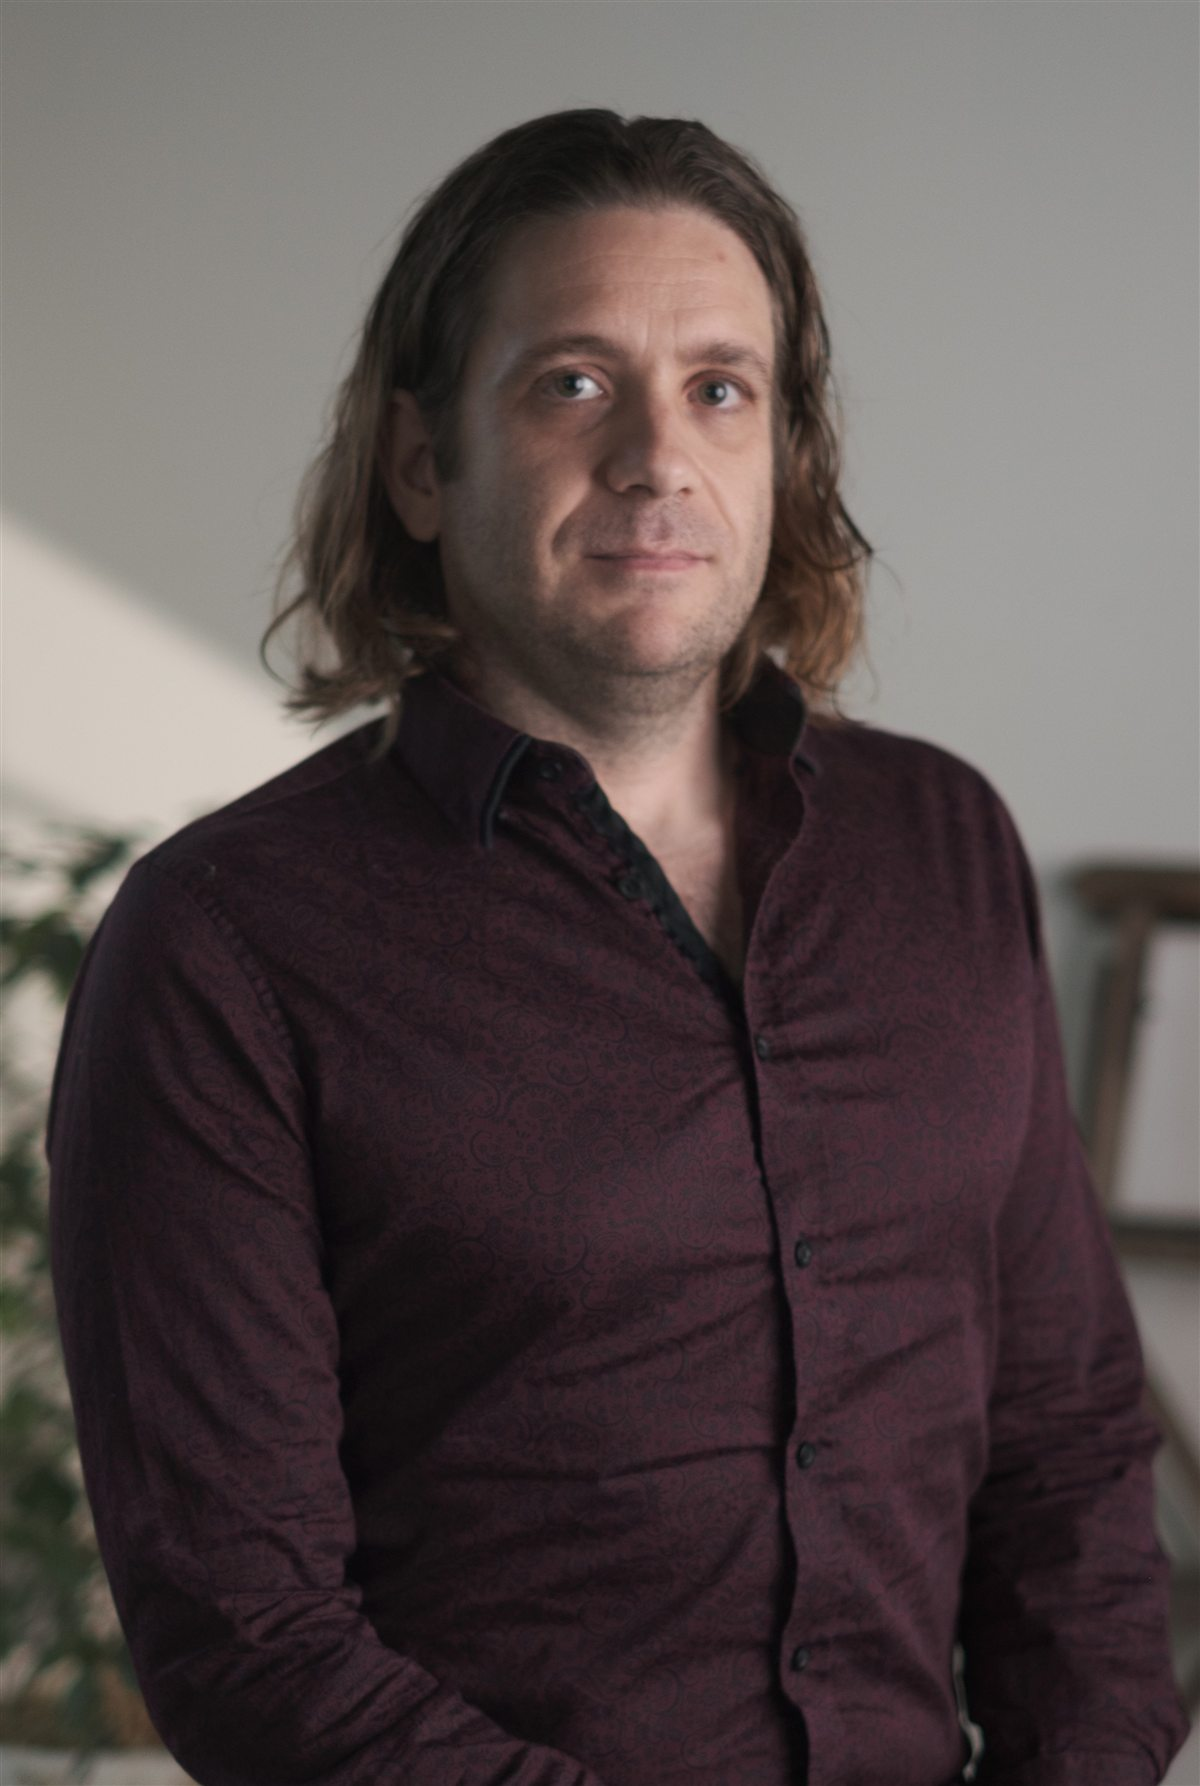
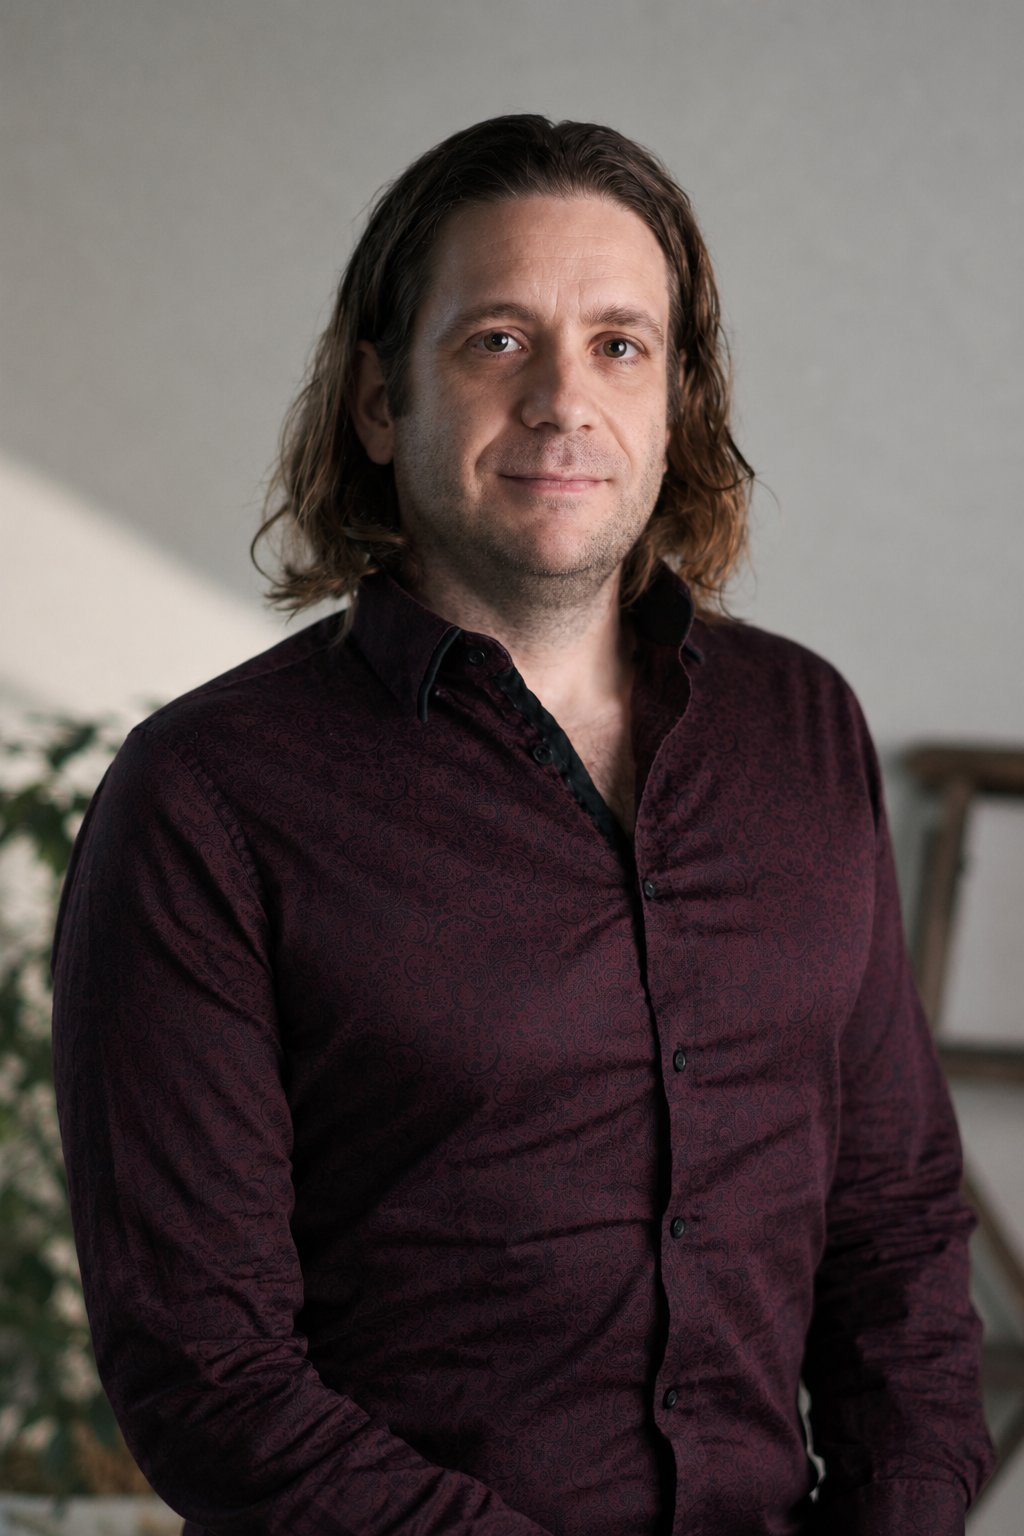
Update ENM page and portraits

diff --git a/src/pages/EnmPolyamoryCounselling.tsx b/src/pages/EnmPolyamoryCounselling.tsx
@@ -9,6 +9,7 @@ import useDocumentMetadata from "../hooks/useDocumentMetadata";
 import "../styles-enm-polyamory.css";
 
 type LinkItem = { label: string; href: string };
+type PositionItem = { label: string; prose: string };
 type GapItem = { title: string; copy: string };
 type TopicItem = { title: string; copy: string };
 type PrincipleItem = { title: string; text: string };
@@ -23,12 +24,43 @@ const pageContent = {
   hero: {
     badge: "ENM & polyamory counselling",
     intro:
-      "These relationships are known here. Not just the structures. There is no implicit goal of simplification. Jealousy is not treated as evidence that the structure is failing. Whatever you are carrying within these relationships, it can come here. The weight of it, taken seriously.",
+      "These relationships are known here. What it actually feels like to live inside them. There is no implicit goal of simplification. Jealousy is not treated as evidence that your relationships are the problem. Whatever you are carrying within these relationships, it can come here. The weight of it, taken seriously.",
     hubAside: {
       label: "Wider context",
       copy: "If ENM is only one part of why this page felt relevant, the inclusion hub keeps the wider context in view: kink, LGBTQIA+ lives, shame, family, community overlap, and the parts that do not sit neatly under one label.",
       link: { label: "Back to inclusion hub", href: "/inclusion" } satisfies LinkItem,
     },
+  },
+
+  positionsSection: {
+    heading: "Wherever you are in this.",
+    items: [
+      {
+        label: "When the ground shifts.",
+        prose:
+          "The relationship you thought you were in has become uncertain. Whether you brought this question into the relationship or it arrived with your partner, the usual scripts don't fit. What you haven't been able to say yet belongs here too. This can be the place to find out what you actually think and feel, without the answer being decided before you arrive.",
+      },
+      {
+        label: "Jealousy, insecurity, the gap.",
+        prose:
+          "Praesent commodo cursus magna, vel scelerisque nisl consectetur et. Integer posuere erat a ante venenatis dapibus.",
+      },
+      {
+        label: "Running the middle.",
+        prose:
+          "Donec ullamcorper nulla non metus auctor fringilla. Curabitur blandit tempus porttitor, mauris condimentum.",
+      },
+      {
+        label: "When the needs don't match.",
+        prose:
+          "Aenean lacinia bibendum nulla sed consectetur. Vestibulum id ligula porta felis euismod semper.",
+      },
+      {
+        label: "Not knowing yet.",
+        prose:
+          "Nullam quis risus eget urna mollis ornare vel eu leo. Maecenas faucibus mollis interdum.",
+      },
+    ] satisfies PositionItem[],
   },
 
   gapSection: {
@@ -176,8 +208,16 @@ const pageContent = {
 
 export default function EnmPolyamoryCounselling() {
   useDocumentMetadata(pageContent.title, pageContent.meta);
-  const { hero, gapSection, topicsSection, approachSection, individualSection, faqSection, ctaSection } =
-    pageContent;
+  const {
+    hero,
+    positionsSection,
+    gapSection,
+    topicsSection,
+    approachSection,
+    individualSection,
+    faqSection,
+    ctaSection,
+  } = pageContent;
 
   return (
     <main className="site-page enm-page">
@@ -206,6 +246,20 @@ export default function EnmPolyamoryCounselling() {
                 {hero.hubAside.link.label}
               </Link>
             </aside>
+          </div>
+        </Container>
+      </section>
+
+      <section className="site-grid enm-page__positions">
+        <Container className="enm-page__positions-inner">
+          <h2 className="enm-page__positions-heading">{positionsSection.heading}</h2>
+          <div className="enm-page__position-list" aria-label="Common positions in ENM relationships">
+            {positionsSection.items.map((item) => (
+              <article className="enm-page__position-block" key={item.label}>
+                <h3>{item.label}</h3>
+                <p>{item.prose}</p>
+              </article>
+            ))}
           </div>
         </Container>
       </section>

diff --git a/src/styles-enm-polyamory.css b/src/styles-enm-polyamory.css
@@ -60,6 +60,47 @@
   margin-top: 2px;
 }
 
+.enm-page__positions-inner {
+  display: grid;
+  gap: clamp(1.8rem, 4vw, 3rem);
+}
+
+.enm-page__positions-heading {
+  max-width: none;
+}
+
+.enm-page__position-list {
+  display: grid;
+}
+
+.enm-page__position-block {
+  display: grid;
+  grid-template-columns: minmax(0, 0.3fr) minmax(0, 0.7fr);
+  gap: clamp(1.5rem, 4vw, 3.5rem);
+  align-items: start;
+  padding-block: 24px;
+  border-bottom: 1px solid rgba(35, 75, 61, 0.16);
+}
+
+.enm-page__position-block:first-child {
+  padding-top: 0;
+}
+
+.enm-page__position-block:last-child {
+  padding-bottom: 0;
+  border-bottom: 0;
+}
+
+.enm-page__position-block h3 {
+  color: var(--ink);
+  font-size: var(--type-card-title);
+  line-height: var(--leading-card);
+}
+
+.enm-page__position-block p {
+  margin: 0;
+}
+
 /* ── Gap section ─────────────────────────────────────────────────────── */
 
 .enm-page__gap-inner {
@@ -309,6 +350,16 @@
 }
 
 @media (max-width: 700px) {
+  .enm-page__position-block {
+    grid-template-columns: 1fr;
+    gap: 8px;
+    padding-block: 20px;
+  }
+
+  .enm-page__position-block h3 {
+    max-width: none;
+  }
+
   .enm-page__topics-list {
     grid-template-columns: 1fr;
   }

diff --git a/src/styles-home.css b/src/styles-home.css
@@ -20,6 +20,10 @@
 }
 
 .home-page .hero-media-note__image {
+  display: grid;
+  aspect-ratio: 4 / 4.75;
+  align-items: center;
+  justify-items: center;
   background: var(--surface-strong);
   border-color: rgba(35, 75, 61, 0.42);
   box-shadow:
@@ -29,8 +33,12 @@
 }
 
 .home-page .hero-media-note__image img {
-  aspect-ratio: 4 / 4.75;
-  object-position: center 45%;
+  width: auto;
+  max-width: 100%;
+  height: 100%;
+  aspect-ratio: auto;
+  object-fit: contain;
+  object-position: center;
 }
 
 .home-page__portrait-tag {
@@ -255,6 +263,6 @@
   }
 
   .home-page .hero-media-note__image img {
-    aspect-ratio: 4 / 4.75;
+    aspect-ratio: auto;
   }
 }